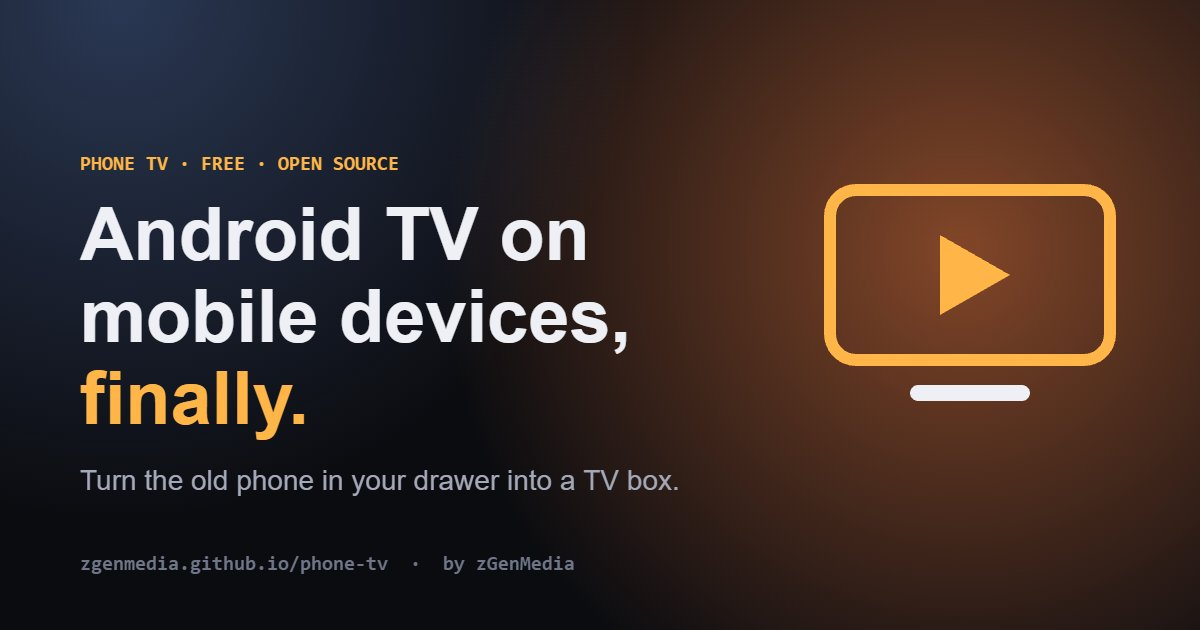
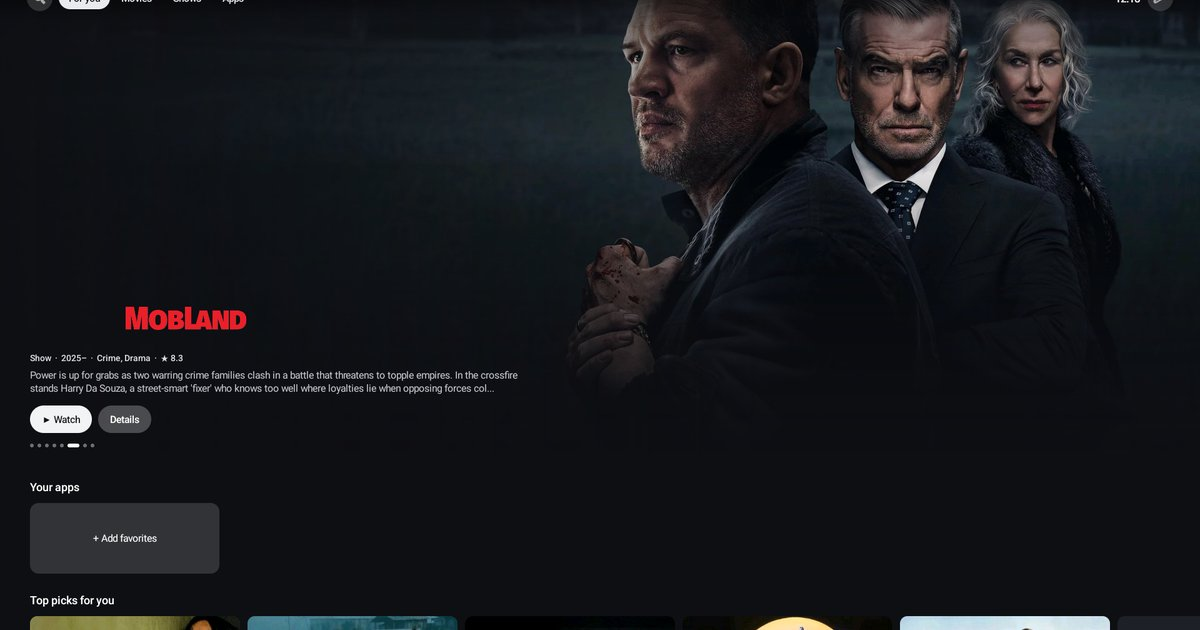
Add real screenshots and Windows PC (BlueStacks) support to site and README
- Hero now shows a real landscape screenshot instead of the CSS illustration
- New PC & Phone section with BlueStacks setup steps, phone + PC screenshots
- SEO: title/description/keywords, JSON-LD screenshots + PC FAQ
- Social preview image built from the landscape screenshot

diff --git a/docs/index.html b/docs/index.html
@@ -3,9 +3,9 @@
 <head>
 <meta charset="utf-8">
 <meta name="viewport" content="width=device-width, initial-scale=1">
-<title>Phone TV — Android TV on Mobile Devices, Finally | Free TV Launcher APK</title>
-<meta name="description" content="Phone TV is a free, open-source Android TV-style launcher that turns an old Android phone into a streaming box. TV home screen, Android TV apps, Plex integration — a 62 KB APK for Android 8.0+.">
-<meta name="keywords" content="android tv launcher for phone, turn old phone into tv box, google tv launcher apk, android tv on phone, leanback launcher phone, plex launcher, diy streaming box, shield alternative, old android phone uses">
+<title>Phone TV — Android TV on Phones &amp; PC (BlueStacks) | Free TV Launcher APK</title>
+<meta name="description" content="Phone TV is a free, open-source Android TV-style launcher. Turn an old Android phone into a streaming box, or get a clean lean-back TV screen on your Windows PC with BlueStacks. TV apps, Plex, 62 KB APK.">
+<meta name="keywords" content="android tv launcher for phone, turn old phone into tv box, google tv launcher apk, android tv on phone, leanback launcher phone, plex launcher, diy streaming box, shield alternative, old android phone uses, android tv on pc, bluestacks tv launcher, lean back pc, htpc launcher windows">
 <meta name="author" content="zGenMedia">
 <meta name="theme-color" content="#0b0c10">
 <link rel="canonical" href="https://zgenmedia.github.io/phone-tv/">
@@ -15,14 +15,14 @@
 <meta property="og:type" content="website">
 <meta property="og:site_name" content="Phone TV by zGenMedia">
 <meta property="og:title" content="Phone TV — Android TV on mobile devices, finally">
-<meta property="og:description" content="Turn the old phone in your drawer into a TV box. Free, open-source, 62 KB.">
+<meta property="og:description" content="A lean-back TV home screen for old Android phones and Windows PCs (via BlueStacks). Free, open-source, 62 KB.">
 <meta property="og:url" content="https://zgenmedia.github.io/phone-tv/">
 <meta property="og:image" content="https://zgenmedia.github.io/phone-tv/assets/og.jpg">
 <meta property="og:image:width" content="1200">
 <meta property="og:image:height" content="630">
 <meta name="twitter:card" content="summary_large_image">
 <meta name="twitter:title" content="Phone TV — Android TV on mobile devices, finally">
-<meta name="twitter:description" content="Turn the old phone in your drawer into a TV box. Free, open-source, 62 KB.">
+<meta name="twitter:description" content="A lean-back TV home screen for old Android phones and Windows PCs (via BlueStacks). Free, open-source, 62 KB.">
 <meta name="twitter:image" content="https://zgenmedia.github.io/phone-tv/assets/og.jpg">
 
 <script type="application/ld+json">
@@ -34,7 +34,8 @@
   "description": "A free, open-source Android TV-style home screen launcher that turns Android phones into streaming boxes.",
   "applicationCategory": "MultimediaApplication",
   "applicationSubCategory": "Launcher",
-  "operatingSystem": "Android 8.0+",
+  "operatingSystem": "Android 8.0+; Windows via BlueStacks",
+  "screenshot": ["https://zgenmedia.github.io/phone-tv/assets/screens/pc-bluestacks-landscape.jpg", "https://zgenmedia.github.io/phone-tv/assets/screens/phone-portrait.jpg"],
   "softwareVersion": "0.5.0",
   "fileSize": "62KB",
   "downloadUrl": "https://zgenmedia.github.io/phone-tv/downloads/PhoneTV.apk",
@@ -58,6 +59,8 @@
      "acceptedAnswer": {"@type": "Answer", "text": "Most Android TV (leanback) editions install on phones. Phone TV detects them, shows their TV banners and launches them correctly. Some expect a remote, so pair a Bluetooth controller or air mouse."}},
     {"@type": "Question", "name": "How do I connect an old phone to my TV?",
      "acceptedAnswer": {"@type": "Answer", "text": "Use a USB-C to HDMI adapter if your phone supports DisplayPort Alt Mode, an MHL adapter on older models, or wireless Cast, Smart View or Miracast."}},
+    {"@type": "Question", "name": "Does Phone TV work on a Windows PC?",
+     "acceptedAnswer": {"@type": "Answer", "text": "Yes. Install the free BlueStacks Android emulator, install PhoneTV.apk into it and open Phone TV. Go fullscreen and your PC gets a clean, lean-back TV interface for your streaming apps."}},
     {"@type": "Question", "name": "Does Phone TV work with Plex?",
      "acceptedAnswer": {"@type": "Answer", "text": "Yes. Link your account with a 4-character code at plex.tv/link to get Continue Watching and Recently Added rows from your own Plex Media Server."}},
     {"@type": "Question", "name": "Is Phone TV free?",
@@ -129,35 +132,18 @@ header{position:sticky;top:0;z-index:20;background:rgba(11,12,16,.78);backdrop-f
 .meta{display:flex;flex-wrap:wrap;gap:8px 18px;margin-top:22px;font:13px var(--mono);color:var(--mute)}
 .meta b{color:var(--green);font-weight:600}
 
-/* device mockup (CSS illustration of the UI, not a screenshot) */
-.device{position:relative;aspect-ratio:19.5/9;width:100%;border-radius:34px;padding:10px;background:linear-gradient(145deg,#2a2e3a,#0c0d12);box-shadow:0 40px 90px -30px rgba(0,0,0,.9),0 0 0 1px rgba(255,255,255,.06) inset;transform:perspective(1600px) rotateY(-8deg) rotateX(4deg)}
-@media(max-width:979px){.device{transform:none}}
-.screen{position:relative;height:100%;border-radius:26px;overflow:hidden;background:#0e0f13;font-family:var(--sans)}
-.s-hero{position:absolute;inset:0 0 34% 0;background:
-  linear-gradient(90deg,#0e0f13 8%,rgba(14,15,19,.55) 45%,transparent 75%),
-  linear-gradient(0deg,#0e0f13 2%,transparent 45%),
-  radial-gradient(70% 90% at 78% 40%,#e0743b 0%,#7d2f56 38%,#24264a 70%,#0e0f13 100%)}
-.s-hero::after{content:"";position:absolute;right:12%;top:22%;width:22%;aspect-ratio:1;border-radius:50%;background:radial-gradient(circle at 40% 35%,#ffd28a,#ff8a4b 60%,transparent 62%);filter:blur(.5px);opacity:.85}
-.s-bar{position:absolute;top:5%;left:4%;right:4%;display:flex;align-items:center;gap:1.4%;font-size:clamp(6px,1.05vw,11px);color:#e3e4e8}
-.s-bar span{padding:.35em .9em;border-radius:99px}
-.s-bar span.on{background:#e8eaed;color:#101114;font-weight:600}
-.s-bar i{margin-left:auto;font-style:normal;font-weight:600}
-.s-title{position:absolute;left:4.5%;top:26%;width:44%}
-.s-title b{display:block;font-size:clamp(13px,2.9vw,30px);letter-spacing:-.02em;line-height:1}
-.s-title small{display:block;margin-top:.6em;font-size:clamp(5px,.9vw,10px);color:#c9ccd4}
-.s-title .s-btn{display:inline-block;margin-top:.9em;padding:.4em 1em;border-radius:99px;background:#f1f3f4;color:#111;font-size:clamp(5px,.9vw,10px);font-weight:600}
-.s-row{position:absolute;left:4.5%;right:0;display:flex;gap:1.4%}
-.s-label{position:absolute;left:4.5%;font-size:clamp(5px,.85vw,9px);color:#fff;font-weight:600}
-.s-apps{bottom:16%;height:17%}
-.s-apps div{flex:0 0 15%;border-radius:8px;display:grid;place-items:center;font-size:clamp(5px,.8vw,9px);font-weight:700;color:#fff;letter-spacing:.02em}
-.s-apps div:nth-child(1){background:linear-gradient(135deg,#8a5cf6,#43288f)}
-.s-apps div:nth-child(2){background:linear-gradient(135deg,#1e88e5,#0b3a74)}
-.s-apps div:nth-child(3){background:linear-gradient(135deg,#f5a524,#9a5b00)}
-.s-apps div:nth-child(4){background:linear-gradient(135deg,#e53935,#7c1212)}
-.s-apps div:nth-child(5){background:linear-gradient(135deg,#26a69a,#0b5049)}
-.s-apps div:nth-child(6){background:rgba(255,255,255,.12)}
-.s-posters{bottom:-6%;height:19%}
-.s-posters div{flex:0 0 7.6%;border-radius:6px;background:linear-gradient(160deg,var(--c1),var(--c2))}
+/* screenshots */
+.shot{position:relative;margin:0;border-radius:18px;overflow:hidden;background:#000;box-shadow:0 40px 90px -30px rgba(0,0,0,.9),0 0 0 1px rgba(255,255,255,.08)}
+.shot img{width:100%;height:auto}
+.shot-tilt{transform:perspective(1600px) rotateY(-7deg) rotateX(3deg)}
+@media(max-width:979px){.shot-tilt{transform:none}}
+.shot-phone{max-width:300px;border-radius:30px;border:8px solid #1d2029}
+.shot-pc{border:10px solid #1d2029;border-bottom-width:22px;border-radius:16px}
+.pc-grid{display:grid;gap:40px;align-items:center;margin-top:44px}
+@media(min-width:900px){.pc-grid{grid-template-columns:1.6fr 1fr}}
+.pc-grid>*{min-width:0}
+.badge-row{display:flex;flex-wrap:wrap;gap:8px;margin-top:22px}
+.badge-row span{font:600 12px var(--mono);padding:7px 12px;border-radius:99px;background:var(--bg2);border:1px solid var(--line);color:var(--dim)}
 .caption{margin-top:14px;text-align:center;font:12px var(--mono);color:var(--mute)}
 
 /* stats */
@@ -256,6 +242,7 @@ footer{border-top:1px solid var(--line);padding:40px 0 56px;color:var(--mute);fo
     </a>
     <nav aria-label="Primary">
       <a href="#features">Features</a>
+      <a href="#pc">PC &amp; Phone</a>
       <a href="#setup">Setup</a>
       <a href="#plex">Plex</a>
       <a href="#nerds">Under the hood</a>
@@ -274,7 +261,7 @@ footer{border-top:1px solid var(--line);padding:40px 0 56px;color:var(--mute);fo
         <div>
           <p class="eyebrow">Free · Open source · by zGenMedia</p>
           <h1 style="margin-top:18px">Android TV on mobile devices, <em>finally.</em></h1>
-          <p class="lead">Phone TV turns the old phone in your drawer into a living-room streaming box. A TV-style home screen, your Android TV apps, Plex, and the movies and shows people are watching — in a 62&nbsp;KB APK built to run cool on older hardware.</p>
+          <p class="lead">Phone TV turns the old phone in your drawer into a living-room streaming box, and gives your Windows PC a clean lean-back TV screen through BlueStacks. A TV-style home screen, your Android TV apps, Plex, and the movies and shows people are watching — in a 62&nbsp;KB APK built to run cool on older hardware.</p>
           <div class="actions">
             <a class="btn btn-primary" href="downloads/PhoneTV.apk" download>
               <svg width="18" height="18" viewBox="0 0 24 24" fill="none" stroke="currentColor" stroke-width="2.4" stroke-linecap="round" stroke-linejoin="round" aria-hidden="true"><path d="M12 3v12m0 0l-5-5m5 5l5-5M4 21h16"/></svg>
@@ -285,23 +272,14 @@ footer{border-top:1px solid var(--line);padding:40px 0 56px;color:var(--mute);fo
               View source
             </a>
           </div>
-          <div class="meta"><span><b>●</b> Android 8.0+</span><span>62 KB</span><span>0 dependencies</span><span>No ads · No tracking</span><span>MIT</span></div>
+          <div class="meta"><span><b>●</b> Android 8.0+</span><span>Windows via BlueStacks</span><span>62 KB</span><span>0 dependencies</span><span>No ads · No tracking</span><span>MIT</span></div>
         </div>
 
         <figure style="margin:0">
-          <div class="device" role="img" aria-label="Illustration of the Phone TV home screen on a phone in landscape">
-            <div class="screen">
-              <div class="s-hero"></div>
-              <div class="s-bar"><span>⌕</span><span class="on">For you</span><span>Movies</span><span>Shows</span><span>Apps</span><i>8:42</i></div>
-              <div class="s-title"><b>Tonight's pick</b><small>Movie · 2026 · Sci-Fi · ★ 8.1</small><span class="s-btn">▶ Watch</span></div>
-              <div class="s-label" style="bottom:35%">Your apps</div>
-              <div class="s-row s-apps"><div>STREAM</div><div>IPTV</div><div>PLEX</div><div>VIDEO</div><div>MUSIC</div><div>+</div></div>
-              <div class="s-row s-posters">
-                <div style="--c1:#3b5bdb;--c2:#15193a"></div><div style="--c1:#e8590c;--c2:#3d1405"></div><div style="--c1:#2f9e44;--c2:#0b2a13"></div><div style="--c1:#ae3ec9;--c2:#2a0d33"></div><div style="--c1:#f08c00;--c2:#3a2200"></div><div style="--c1:#1c7ed6;--c2:#0a2440"></div><div style="--c1:#c2255c;--c2:#33091a"></div><div style="--c1:#5f3dc4;--c2:#1a1040"></div><div style="--c1:#0ca678;--c2:#04291e"></div><div style="--c1:#e03131;--c2:#3a0b0b"></div><div style="--c1:#495057;--c2:#15181b"></div><div style="--c1:#1098ad;--c2:#052a30"></div>
-              </div>
-            </div>
+          <div class="shot shot-tilt">
+            <img src="assets/screens/pc-bluestacks-landscape.jpg" width="1600" height="900" alt="Phone TV home screen in landscape: featured show banner, Your apps shelf and Top picks row" fetchpriority="high">
           </div>
-          <figcaption class="caption">Interface illustration — Phone TV in landscape</figcaption>
+          <figcaption class="caption">Real screenshot · Phone TV v0.5.0 in landscape (PC via BlueStacks)</figcaption>
         </figure>
       </div>
 
@@ -349,6 +327,31 @@ footer{border-top:1px solid var(--line);padding:40px 0 56px;color:var(--mute);fo
         <article class="card"><div class="ic"><svg viewBox="0 0 24 24" fill="none" stroke="currentColor" stroke-width="2" stroke-linecap="round"><path d="M12 3v3M12 18v3M3 12h3M18 12h3M5.6 5.6l2.1 2.1M16.3 16.3l2.1 2.1M5.6 18.4l2.1-2.1M16.3 7.7l2.1-2.1"/></svg></div><h3>Runs cool on old hardware</h3><p>Lazy-loaded art, images decoded at display size, a downsized disk cache and background-priority threads.</p></article>
         <article class="card"><div class="ic"><svg viewBox="0 0 24 24" fill="none" stroke="currentColor" stroke-width="2" stroke-linecap="round"><rect x="5" y="11" width="14" height="10" rx="2"/><path d="M8 11V7a4 4 0 018 0v4"/></svg></div><h3>Private by default</h3><p>No accounts, analytics or ads. Plex tokens stay on the device and are excluded from backups.</p></article>
       </div>
+    </div>
+  </section>
+
+  <!-- PC & Phone -->
+  <section id="pc">
+    <div class="wrap">
+      <p class="eyebrow">PC &amp; Phone</p>
+      <h2 style="margin-top:14px">The PC finally gets a lean-back screen.</h2>
+      <p class="lead" style="margin-top:18px">Phone TV runs in BlueStacks, the free Android emulator for Windows. Hook a PC up to the TV, go fullscreen and you get the same clean couch interface you'd get from a streaming box: big artwork, your apps on one shelf, no desktop clutter. On a phone it adapts to portrait or landscape automatically.</p>
+      <div class="pc-grid">
+        <figure style="margin:0">
+          <div class="shot shot-pc"><img src="assets/screens/pc-bluestacks-landscape.jpg" width="1600" height="900" loading="lazy" alt="Phone TV running fullscreen on a Windows PC in BlueStacks"></div>
+          <figcaption class="caption">Windows PC · BlueStacks · fullscreen</figcaption>
+        </figure>
+        <figure style="margin:0;justify-self:center">
+          <div class="shot shot-phone"><img src="assets/screens/phone-portrait.jpg" width="720" height="1280" loading="lazy" alt="Phone TV home screen in portrait on an Android phone"></div>
+          <figcaption class="caption">Android phone · portrait</figcaption>
+        </figure>
+      </div>
+      <div class="steps" style="margin-top:40px">
+        <div class="step"><h3>Install BlueStacks</h3><p>Download the free BlueStacks player for Windows from its official site and finish the setup.</p></div>
+        <div class="step"><h3>Add Phone TV</h3><p>Drag <span class="mono">PhoneTV.apk</span> onto the BlueStacks window, or use its <em>Install APK</em> button.</p></div>
+        <div class="step"><h3>Go fullscreen</h3><p>Open Phone TV and switch BlueStacks to fullscreen. Mouse and keyboard work out of the box, and BlueStacks supports game controllers too.</p></div>
+      </div>
+      <div class="badge-row"><span>Windows 10 / 11</span><span>BlueStacks</span><span>Landscape layout</span><span>Mouse &amp; keyboard</span></div>
     </div>
   </section>
 
@@ -459,6 +462,7 @@ footer{border-top:1px solid var(--line);padding:40px 0 56px;color:var(--mute);fo
       <p class="eyebrow">FAQ</p>
       <h2 style="margin-top:14px;margin-bottom:12px">Questions, answered.</h2>
       <details><summary>Is this the real Android TV or Google TV?</summary><p>No. Google's TV software only runs on certified TV hardware. Phone TV is an independent launcher that recreates the TV experience on a phone and runs the Android TV editions of apps you install.</p></details>
+      <details><summary>Does it work on a Windows PC?</summary><p>Yes. Install the free BlueStacks emulator, install PhoneTV.apk into it and open Phone TV. In fullscreen your PC gets a clean, lean-back TV interface for the apps you install in BlueStacks.</p></details>
       <details><summary>Which phones work?</summary><p>Any Android phone or tablet on Android 8.0 (Oreo) or newer. It was built to run cool on older, low-memory hardware.</p></details>
       <details><summary>Will my Android TV apps work?</summary><p>Most TV (leanback) editions install on phones, and Phone TV launches them correctly. Some expect a remote or lock to landscape — a Bluetooth controller or air mouse fixes both.</p></details>
       <details><summary>How do I connect the phone to my TV?</summary><p>A USB-C to HDMI adapter if your phone supports DisplayPort Alt Mode, an MHL adapter on older models, or wireless Cast, Smart View or Miracast.</p></details>

diff --git a/README.md b/README.md
@@ -4,7 +4,7 @@
 
 **Android TV on mobile devices, finally.**
 
-A free, open-source, TV-style home screen that turns any Android phone — especially the old one in your drawer — into a streaming box.
+A free, open-source, TV-style home screen that turns any Android phone — especially the old one in your drawer — into a streaming box. Runs on Windows PCs too, through BlueStacks, for a clean lean-back screen on the big TV.
 
 [**Download the latest APK**](https://github.com/zGenMedia/phone-tv/releases/latest) · [Website](https://zgenmedia.github.io/phone-tv/) · [Support on Ko-fi](https://ko-fi.com/zgenmedia/tiers) · [zGenMedia](https://zgenmedia.com)
 
@@ -16,6 +16,13 @@ A free, open-source, TV-style home screen that turns any Android phone — espec
 </div>
 
 ---
+
+<p align="center">
+  <img src="docs/assets/screens/pc-bluestacks-landscape.jpg" width="68%" alt="Phone TV in landscape on a Windows PC via BlueStacks">
+  &nbsp;
+  <img src="docs/assets/screens/phone-portrait.jpg" width="22%" alt="Phone TV in portrait on an Android phone">
+</p>
+<p align="center"><sub>Real screenshots, v0.5.0: Windows PC via BlueStacks (left) and an Android phone in portrait (right).</sub></p>
 
 ## Why
 
@@ -57,6 +64,14 @@ adb shell cmd package set-home-activity com.kinglifer.tvlauncher/com.kinglifer.t
 - **Power:** keep it plugged in; enable your phone's battery-protect / 85 % charge limit if it has one.
 - **Apps:** install TV editions where they exist — Phone TV puts them on the shelf with their TV banners.
 
+## On a Windows PC (BlueStacks)
+
+1. Install the free [BlueStacks](https://www.bluestacks.com/) player.
+2. Drag `PhoneTV.apk` onto the BlueStacks window, or use its *Install APK* button.
+3. Open Phone TV and switch BlueStacks to fullscreen. Mouse and keyboard work out of the box; BlueStacks also supports game controllers.
+
+Plug the PC into a TV and you have a lean-back home screen without buying a streaming box.
+
 ## Building from source
 
 Requirements: JDK 17, Gradle 8.14+ and the Android SDK (platform 36).
@@ -97,6 +112,9 @@ Views are built in code (no XML layouts, no androidx) so the whole screen rebuil
 
 **Is this the real Android TV / Google TV?**
 No. Google's TV software only runs on certified TV hardware. Phone TV is an independent launcher that recreates the experience on a phone.
+
+**Does it run on PC?**
+Yes, inside BlueStacks on Windows. See [On a Windows PC](#on-a-windows-pc-bluestacks).
 
 **Will TV-only apps work?**
 Most TV editions install and launch. Some expect a remote (use a Bluetooth controller) or lock to landscape.
